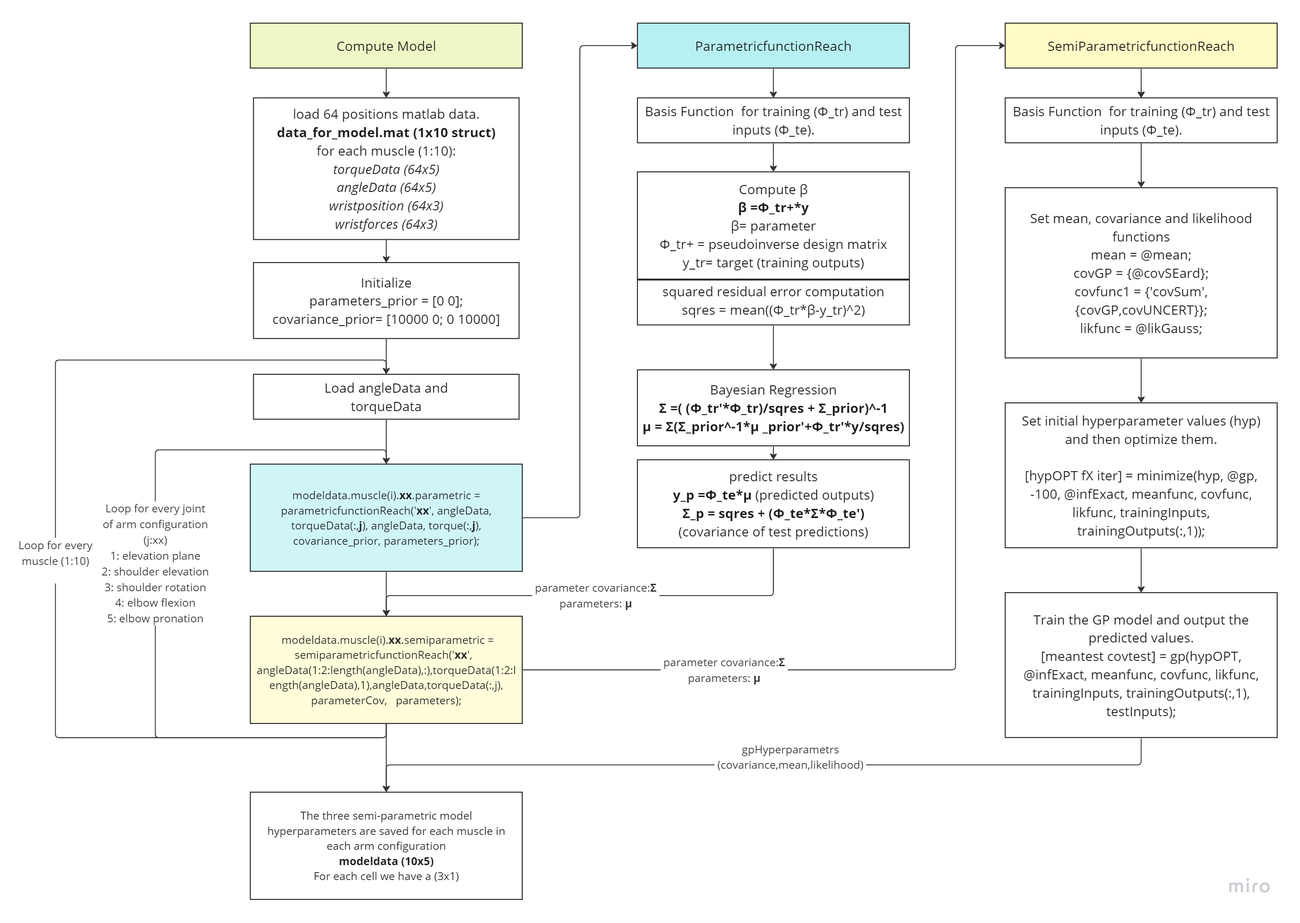
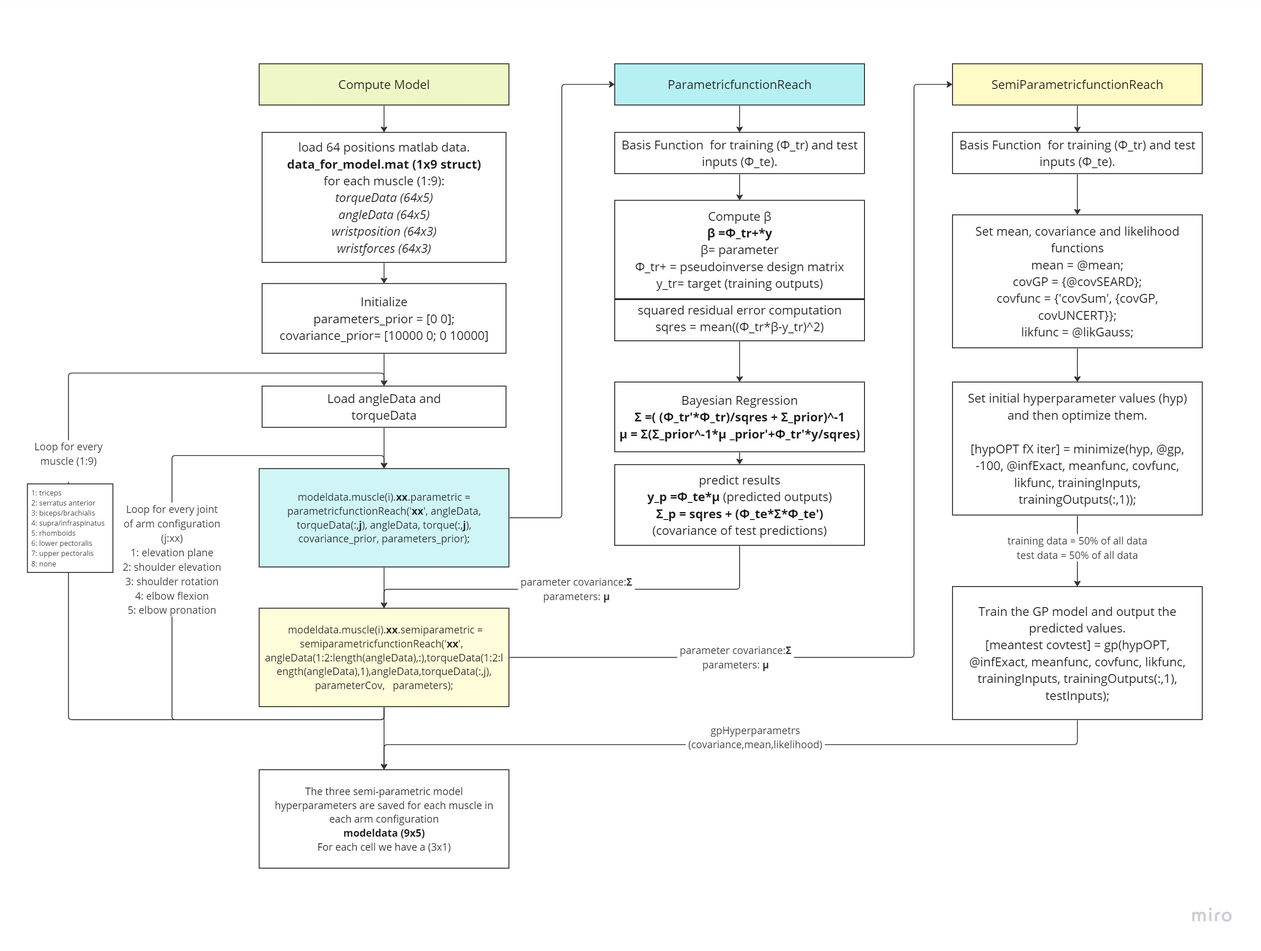
16.08.23

diff --git a/Chapters/05_2_Model_Identification.tex b/Chapters/05_2_Model_Identification.tex
@@ -1,10 +1,10 @@
 \newpage
-\chapter{Model Design and Development}\label{sec:model}
+\chapter{Arm Model Design and Development}\label{sec:model}
 The world of model-based methods for FES-based arm control is vast, encompassing different approaches. This chapter commences with a detailed background on these diverse methods, setting the stage for a deeper exploration. Gaussian Process Regression (GPR) model was selected to control the simulated arm in the DAS. It is selected for its non-parametric and data-driven attributes. This choice allows for a detailed analytical representation of complex patterns without rigid assumptions about muscle structure. 
 
 The chapter then transitions to the design of the two essential models for this project; the 'Inverse Statics', which determines the joint torque necessary for a specific static arm position, and the 'Muscle Torque Production' that connects arm configuration and muscle activation to the produced joint torque. 
 
-From choosing the target positions and initial configurations for data collection, to the introduction of a PI controller designed to compute wrist force, to the torque calculation via the Kinematic Jacobian, each section builds upon the previous. Later sections provide a comparative analysis of the three GPR models, highlighting the semi-parametric model that  combines the flexibility of black-box functions with strong generalization capabilities. With a foundation in GPR, the chapter concludes by detailing its implementation on Matlab, delving into data extraction, model fitting, and the final derivation of hyperparameters representative of the models.
+From choosing the target positions for data collection, to the PI controller designed to compute wrist force to hold static at the target positions, to the torque calculation via the Kinematic Jacobian, each section builds upon the previous. Later sections provide a comparative analysis of the three GPR models, highlighting the semi-parametric model that  combines the flexibility of black-box functions with strong generalization capabilities. With a foundation in Semi-Parametric GPR models, the chapter concludes by detailing its implementation on Matlab, delving into data extraction, model fitting, and the final derivation of hyperparameters representative of the desired models.
 
 \subsection{Background}
 Model-based methods for FES controlling the arm as a unified system and determining real-world arm dynamics have been suggested in earlier studies as a solution for precise control. For instance, physics-based models have demonstrated some success in controlling two muscles for rehabilitation \cite{IOL}. However, a major challenge lies in the identification of the physical parameters of the entire arm, which demands a significant amount of data.
@@ -56,33 +56,34 @@ Finally, the collected data is used to train the two semiparametric GPR models w
  
  Since no real-world situation has been evaluated for this project, the simulation's goal is to represent a reaching motion beginning from an equilibrium posture. Additionally, the stroke survivor's arm is not being held by an external robot.As detailed in Section \ref{Design}, this approach stems from the assumption that the stroke survivor retains a degree of arm stability, sufficient to facilitate a limited reaching movement.  
 
- For this, it is decided to find calculate the forces in 64 different positions. This 64 positions are automatically generated using the function \textit{\textbf{create\_grid()}}.
-
-
-The \textbf{\textit{create\_grid()}} function generates a grid of target points by defining the starting and ending coordinates for the x, y, and z dimensions and then linearly spacing these coordinates. If a model is provided as an input, the function also plots the wrist references, offering a visual representation of these coordinates.
-
-\begin{table}[h]
-    \centering
-    \caption{Start and End Positions for x, y, and z Coordinates}
-
-    \begin{tabular}{|c|c|c|}
-        \hline
-        Coordinate & Start Position & End Position \\
-        \hline
-        x & 0.3 & -0.08 \\
-        y & 0 & -0.3 \\
-        z & -0.1 & -0.35 \\
-        \hline
-    \end{tabular}
-    \label{table:coordinates}
-\end{table}
-
+ For this, it is decided to find calculate the forces in 64 different positions. These 64 positions are automatically generated using the function \textit{\textbf{create\_grid()}}.
+ 
 \begin{figure}[h!]
     \centering
     \includegraphics[width=0.3\textwidth]{Pictures/Model/create_grid.png}
     \caption{\textit{create\_grid} function output. 64 target positions used to calculate the required force to hold a this reference static positions with and without neural excitation.}
     \label{fig:create_grid}
 \end{figure}
+
+The \textbf{\textit{create\_grid()}} function generates a grid of target points by defining the starting and ending coordinates for the x, y, and z dimensions and then linearly spacing these coordinates. If a model is provided as an input, the function also plots the wrist references, offering a visual representation of these coordinates.
+
+\begin{table}[h]
+    \centering
+    \caption{Start and End Positions for x, y, and z Coordinates}
+    \tiny
+    \begin{tabular}{|c|c|c|}
+        \hline
+        \textbf{Coordinate} & Start Position & End Position \\
+        \hline
+        \textbf{x} & 0.3 & -0.08 \\
+        \textbf{y} & 0 & -0.3 \\
+        \textbf{z} & -0.1 & -0.35 \\
+        \hline
+    \end{tabular}
+    \label{table:coordinates}
+\end{table}
+
+
 
 \newpage
 \section{PI Force Controller}\label{sec:PI}
@@ -141,7 +142,7 @@ The force necessary to reach each point is calculated by averaging the last 10\%
 \end{table}
 
 \newpage
-\subsubsection{Matlab Code}
+\subsection{Implementation}
 
 Below is a MATLAB code snippet that represents the PI Controller shown in Figure \ref{fig:PIBlockDiagram}. 
 
@@ -201,7 +202,7 @@ where the Jacobian matrix ($J \epsilon R^{6xn}$) relates the infinitesimal joint
 
 Calculating the kinematic Jacobian in robotics involves defining the structure and parameters of the robot's joints and links, often using conventions like Denavit-Hartenberg (D-H) parameters. Transformation matrices are found for each joint, and the end-effector position is obtained by multiplying these matrices.
 
-The Jacobian matrix is then constructed by differentiating the end-effector's position with respect to each joint variable, considering whether the joint is revolute or prismatic. The resulting 6×n matrix, where n is the number of joints, maps the joint velocities to the linear and angular velocities of the end-effector.
+The Jacobian matrix is then constructed by differentiating the end-effector's position with respect to each joint variable, considering whether the joint is revolute or prismatic. The resulting 6×n matrix, where n is the number of joints, maps the joint velocities to the linear and angular velocities of the end-effector. In this project´s scope the linear velocities will be the only ones taken into account. 
 
 \subsection{Implementation}
 The equation \ref{eq:displacement} is applied as shown in the MATLAB code below to calculate the torque values from the mean forces previously calculate using the PI controller. 
@@ -211,7 +212,7 @@ The equation \ref{eq:displacement} is applied as shown in the MATLAB code below 
 torque = dPhand_dx'*hand_F;
 \end{lstlisting}
 
-Due to the complex system, to calculate the kinematic Jacobian of the arm, the concept of infinitesimal displacement presented in Equation \ref{eq:displacement} is used. The function \textbf{\textit{handpos\_jacobian(x)}} (MATLAB code below) take the state and perturbs each degree of freedom by a small mount $h$. For each perturbation, the old and the new hand positions are  subtracted and divided by $h$. This describes how the changes in the degrees of freedom affect the hand´s position at that particular state. 
+Due to the complex system, to calculate the kinematic Jacobian of the arm, the concept of infinitesimal displacement presented in Equation \ref{eq:displacement} is used. The function \textbf{\textit{handpos\_jacobian(x)}} (MATLAB code below) takes the state and perturbs each degree of freedom by a small mount $h$. For each perturbation, the old and the new hand positions are  subtracted and divided by $h$. This describes how the changes in the degrees of freedom affect the hand´s position at that particular state. 
 
 \begin{lstlisting}[style=Matlab-editor]
 function [dPhand_dx, Phand, Phand_new] = handpos_jacobian(x)
@@ -262,11 +263,11 @@ Gaussian Process Regression (GPR) is a powerful and flexible tool used in machin
 \end{equation}
 where  \( \mu \) is the the mean vector and \( k(x, x') \) is the covariance or kernel function. The mean vector \( \mu \) describes the expected value of the distribution, while the kernel models the variance along each dimension and determines how the different random variables are correlated. The covariance matrix is always symmetric and positive semi-definite.
 
-GPR creates a model of the function it is trying to learn, using a process that considers an infinite number of dimensions and includes an element of randomness. It encapsulated initial beliefs about the function in the \textit{prior distribution}, defined by the mean and kernel functions. Observations are used to update these beliefs through the \textit{likelihood function}, leading to the computation of the \textit{posterior distribution}. This posterior reflects updated beliefs about the possible functions that best fit the data.
+GPR creates a model of the function it is trying to learn, using a process that considers an infinite number of dimensions and includes an element of randomness. It encapsulates initial beliefs about the function in the \textit{prior distribution}, defined by the mean and kernel functions. Observations are used to update these beliefs through the \textit{likelihood function}, leading to the computation of the \textit{posterior distribution}. This posterior reflects updated beliefs about the possible functions that best fit the data.
 
 Predictions are made by calculating the mean and variance of the predictive distribution at new inputs, allowing for both point estimates and uncertainty estimates. 
 
-In summary, GPR operates on the foundational principles of Bayesian inference to model a function from given data. This enables GPR to deliver both point predictions and associated uncertainties. The inherent flexibility and adaptability of GPR make it a powerful and widely applicable tool for function approximation in machine learning and statistical analysis. \cite{GPR}
+In summary, GPR operates on the foundational principles of Bayesian inference to model a function from given data. This enables GPR to deliver both point predictions and associated uncertainties. The inherent flexibility and adaptability of GPR makes it a powerful and widely applicable tool for function approximation in machine learning and statistical analysis. \cite{GPR}
 
 \begin{figure}[h!]
     \centering
@@ -307,16 +308,12 @@ Details on the quality of the model can be found in \cite{SPI}. A summary of the
 
 Based on the results of the aforementioned study, the data for the set of 64 training positions is used to train semiparametric GPR models which are used to predict $\tau_j$ for a given configuration. The models are used to determine the static arm torques $p(q)$ and the muscle force mapping $R(q)$ for a desired arm configuration.
 The kernel function used in the GPR was the squared exponential function using the distance metric for rigid bodies. 
- 
-A MATLAB script, \textbf{\textit{compute\_GPR\_model}}, is designed to compute the model performing Gaussian Process Regression to fit the data. This code loads the data and does GPR for each muscle where the inputs are the arm configuration angles and the output are the joint torques.
 
-The flow diagram shows the steps of the code.
+A MATLAB script, \textbf{\textit{compute\_GPR\_model}}, is designed to compute the model performing Gaussian Process Regression to fit the data. The flow diagram on Figure \ref{fig:ModelComputationGPR} shows the steps followed on the code to compute the hyperparameters of the model.
 
-A more thorough description is presented below.
+The code firsts initializes the prior parameters and the covariance matrices the data containing the information related to each model is loaded. The script sets up 9 specific muscles and 64 target positions. 
 
-After initializing the prior parameters and the covariance matrices the data containing the information related to each model is loaded. The script sets up 10 specific muscles and 64 target positions. 
-
-A loop iterates through each muscle, fexecuting the following steps:
+A loop iterates through each muscle, executing the following steps:
 
 \begin{itemize}
     \item \textbf{Data Extraction}. The angle and torque data to each muscle is extracted.
@@ -324,24 +321,29 @@ A loop iterates through each muscle, fexecuting the following steps:
     \item \textbf{\textit{Output Model}}. Once the analysis is completed the \textbf{modeldata} structure containing the details of the models for all muscles is saved into a MATLAB file. 
 \end{itemize}
 
+ 
+ This code loads the data and does GPR for each muscle where the inputs are the arm configuration angles and the output are the joint torques. 
+
+
+
 \textbf{\textit{PARAMETRIC FUNCTION}}
 
 For the \textbf{parametricfunctionReach}, Bayesian Regression (\cite{BLM}) is used to calculate the mean ($\mu$) and the covariance ($\Sigma$) for the prior parameter distribution for the semiparametric model. Bayessian Regression is a statistical method that estimates the unknown parameters of a linear model by considering them as random variables with prior distributions. It takes into account prior knowledge of the parameters to provide a more precise understanding.
 
-In the following paragraphs, the code and the corresponding mathematical implications will be detailed.  Refer to figure \ref{fig:ModelComputationGPR} for a detailed flow diagram.
+In the following paragraphs, the code and the corresponding mathematical implications will be detailed.  Refer to Figure \ref{fig:ModelComputationGPR} for a detailed flow diagram.
 
 First the basis function or design matrix ,$\Phi$, is evaluated for each arm configuration torque. It is used to represent the relationship between the input variables and the target outputs in a compact and mathematical form. 
 
 Then a residual squared error computation following Equation \ref{eq:rsq} is calculated , where the model parameter, $\beta$, to predict the outputs is calculated by isolating it from the linear model. \( y \) is the target/output vector, \( \Phi \) is the design matrix, \( \beta \) is the vector of coefficients,\( \hat{y} \) is the predicted output vector and  \( sqres \) is the residual error. This residual error will act as the covariance matrix noise.
 
-\begin{equation}
+\begin{equation}\label{eq:rsq}
 \begin{aligned}
     y = \Phi \beta \\
     \beta = \Phi^+y \\
     \hat{y} = \Phi*\beta \\
     sqres = mean((\hat{y}-y)^2) \\
 \end{aligned}
-\end{equation} \label{eq:rsq}
+\end{equation} 
 
 Finally, the mean \( \mu \) and covariance \( \Sigma \) of the parameter $\beta$ distribution  that will define the prior distribution for the semiparametric model are calculated as a posterior distribution following the Bayesian linear regression.  
 
@@ -375,7 +377,7 @@ In summary, the prior mean \( \mu_0 \) and covariance \( \Sigma_0 \) encapsulate
 
 \textbf{\textit{SEMI-PARAMETRIC FUNCTION}}
 
-In the following paragraphs, the code and the corresponding mathematical implications will be detailed.  Refer to figure \ref{fig:ModelComputationGPR} for a detailed flow diagram.
+In the following paragraphs, the code and the corresponding mathematical implications for the \textbf{semi-parametricfunctionReach} will be detailed.  Refer to Figure \ref{fig:ModelComputationGPR} for a detailed flow diagram.
 
 First the basis function or design matrix ,$\Phi$, is evaluated for each arm configuration torque. It is used to represent the relationship between the input variables and the target outputs in a compact and mathematical form. 
 

diff --git a/Chapters/06_1_PIController.tex b/Chapters/06_1_PIController.tex
@@ -9,7 +9,7 @@ The green dot resembles the start of the movement and the red dot the end. The l
 The PI controller was successfully implemented across 64 points (see Figure \ref{fig:create_grid}).
 
 \subsection{Scenario 1: From equilibrium position to target without Neural Excitation}
-Scenario 1 was simulated during 3 seconds with a time step of 0.001s, Kp = 2000 and Ki = 100 (See Table \ref{tab:PI}).
+Scenario 1 was simulated during 3 seconds with a time step of 0.001s, Kp=2000 and Ki=100 (See Table \ref{tab:PI}).
 The PI model successfully controlled the force for the 64 positions reaching. The table below presents performance results from Scenario 1.
 
 \begin{table}[h]
@@ -31,7 +31,7 @@ The PI model successfully controlled the force for the 64 positions reaching. Th
     \label{tab:PINNE}
 \end{table}
 
-It can be seen that the mean target position error is very low and there is not a high variance for the 64 different positions. Moreover, the steady force values are achieved early during the simulation. Finally, it is interesting to highlight that the simulation running time has a 2s difference from the real-time simulation. 
+It can be seen that the mean target position error is very low and there is not a high variance for the 64 different positions. The force values  achiev a steady value early during the simulation. Finally, it is interesting to highlight that the simulation running time has a 2s difference from the real-time simulation. 
 
 The GIF \ref{gif:PICONTROLLER2} (best viewed in Adobe Acrobat) illustrated the OpenSIM movement under the PI controller without neural excitation from equilibrium position to target position. 
 
@@ -46,7 +46,7 @@ The GIF \ref{gif:PICONTROLLER2} (best viewed in Adobe Acrobat) illustrated the O
 
 \newpage
 \subsection{Scenario 2: Holding initial position with different muscles Neural Excitation}
-Scenario 2 was simulated during 0.5 seconds with a time step of 0.001s, Kp = 2000 and Ki = 100 (See Table \ref{tab:PI}).
+Scenario 2 was simulated during 0.5 seconds with a time step of 0.001s, Kp=2000 and Ki=100 (See Table \ref{tab:PI}).
 The PI model successfully controlled the force for the 64 positions. The table below presents some results from Scenario 2 for the 9 muscle categories.
 \begin{table}[h]
     \centering
@@ -78,6 +78,9 @@ The PI model successfully controlled the force for the 64 positions. The table b
     \label{table:PIResults}
 \end{table}
 
+The average target position error remains very low with a low variance for the 64 different positions. In addition, the PI controller is able to find the force that will maintain a steady state in half of the simulation time. However, the real simulation time is more than high times higher than the simulated time. This could be because when a matrix singularity is found the system is reset with different initial arm length values. This could delay the process of simulation. 
+The GIF \ref{gif:PICONTROLLER1} (best viewed in Adobe Acrobat) illustrated the OpenSIM movement under the PI controller  maintaining the position during triceps stimulation.
+
 \begin{figure}[h]
     \centering
     \animategraphics[autoplay,loop,width=0.75\textwidth]{12}{Pictures/Results/TricepsExct/frame_}{0}{34}
@@ -85,9 +88,6 @@ The PI model successfully controlled the force for the 64 positions. The table b
     \label{gif:PICONTROLLER1}
 \end{figure}
 
-The GIF \ref{gif:PICONTROLLER1} (best viewed in Adobe Acrobat) illustrated the OpenSIM movement under the PI controller  maintaining the position during triceps stimulation.
-
-The average target position error remains very low with a low variance still for the 64 different positions. In addition, the PI controller is able to find the force that will maintain a steady state in half of the simulation time. However, the real simulation time is more than high times higher than the simulated time. This could be because when a matrix singularity is found the system is reset with different initial arm length values. This could delay the process of simulation. 
 
 \newpage
 \subsection{PI vs PID Controller}
@@ -176,16 +176,16 @@ As seen in the Figures below the arm support reduces oscillation improving the s
 \end{figure}
 
 
-\begin{figure}[h!] 
+\begin{figure}[t] 
+    \vspace*{0pt}
     \centering
-    \begin{subfigure}[b]{0.45\linewidth}
-       \includegraphics[width=1.1\linewidth]{Pictures/Results/stimuated_1_without_support.png}
+    \begin{subfigure}[b]{0.7\linewidth}
+       \includegraphics[width=\linewidth]{Pictures/Results/stimuated_1_without_support.png}
         \caption{PI Controller Without Arm Support.}
     \end{subfigure}
-    \hfill
-    %\vspace{1cm} % Adjust the space between the figures as needed
-    \begin{subfigure}[b]{0.45\linewidth}            
-        \includegraphics[width=1.1\linewidth]{Pictures/Results/stimuated_1_with_support.png}
+    \vspace{1cm} % Adjust the space between the figures as needed
+    \begin{subfigure}[b]{0.7\linewidth}            
+        \includegraphics[width=\linewidth]{Pictures/Results/stimuated_1_with_support.png}
         \caption{PI Controller With Arm Support.}
     \end{subfigure}
 

diff --git a/Chapters/05_3_Control_Design.tex b/Chapters/05_3_Control_Design.tex
@@ -1,6 +1,14 @@
 \chapter{Control Design and Development}
 
+This chapter presents the arm control design and development that will achieve the objectives highlighted in Section \ref{Design} and illustrated in Figure \ref{fig:bdd}. This journey spans across three stages, each building up from the preceding one, starting from a static control to a sophisticated EMG-influenced control.  
 
+The chapter commences with the \textbf{Static Controller}. This controllers serves as a foundation to ensure the arm's steadiness in a specified position. Utilizing the models from Section \ref{sec:model} and combining it with a PD Controller, the necessary neural activations are generated to hold the arm in the static position. To measure its effectiveness, the controller is assessed across 960 points. From this examination, a select group of \textit{feasible points} are identified. A feasible point signifies that the controller was able to find the corresponding neural activation to sustain a target position uninterrupted for a full second. 
+
+Building upon the static controller, the next phase of \textbf{Path Following Quasi-Static Controller} incorporates the element of motion. The calculated feasible points serve as stepping stones, forming a path designed using the K-Nearest-Neighbours algorithm. This path will be used by the controller to move the arm from point to point, steadily aiming for the end target position.
+
+At the end of the chapter the \textbf{EMG-Influenced FES Controller} is studied. Here, muscle activations are tailored according to the design considerations set in \ref{sec:design considerations}, resulting in a distinct stroke-like movement pattern. A FES device is simulated in this phase. Its objective is to supplement the muscle activation to perform the intended movement. The FES device control dynamically adjusts its output depending on the real-time neural activity data from the triceps. 
+
+By the end of this chapter, readers will have an understanding of the layered process performed to design the simulated EMG-Influenced FES controller of this project. 
 
 \section{Static Controller} \label{NeuralController}
 
@@ -64,7 +72,7 @@ The figures (gif if opened in Adobe Acrobat) below present the generated grid. P
     \centering
     \animategraphics[autoplay,loop,width=0.8\textwidth]{12}{Pictures/Controller/gif/feasiblepoints-}{0}{149}
     \caption{Feasible points. Open in Adobe Acrobat to see gif movement.}
-    
+    \label{gif:Feasiblepoints}
 \end{figure}
 
 \newpage
@@ -132,7 +140,7 @@ This process is repeated until the path reaches the desired end position. As a r
 
 
 \newpage
-\section{EMG-Influenced Controller Development}
+\section{EMG-Influenced FES Controller Development}
 
 Building on top of the controllers previously designed and discussed in this section, we further extend our investigation into the intricate challenges faced by stroke patients. An after-math of stroke is the muscular imbalances, most specifically muscle spasticity, which refers to muscle stiffness that influences movement and speed. As a result, they present difficulty extending the arm. The biceps tend to be over-activated and the triceps and anterior deltoid under-activated \cite{IOL}. To counteract these muscular imbalances, this controller has being design to simulate an effective and targeted electric stimulation. 
 

diff --git a/Chapters/01_0_Introduction.tex b/Chapters/01_0_Introduction.tex
@@ -80,13 +80,13 @@ It is structured in the following way:
 
 \textbf{Chapter 1: Introduction} offers and initial dive into the central research question, the current existing gaps and the problem statement. Moreover it introduces the research goals that will be aimed to be completed along the thesis.
 
-\textbf{Chapter 2: Motivation} serves as a backbone and clarifies the context of the research. The chapter shed light on contemporary FES technologies and their inherent drawbacks, starting with a general overview of the background and moving on to a detailed examination of post-stroke upper limb rehabilitation.
+\textbf{Chapter 2: Literature Review} serves as a backbone and clarifies the context of the research. The chapter shed light on contemporary FES technologies and their inherent drawbacks, starting with a general overview of the background and moving on to a detailed examination of post-stroke upper limb rehabilitation.
 
 \textbf{Chapter 3: Design} The outline for the research is provided in this chapter. It states the design criteria, presents an initial design block diagram and the corresponding requirements for the experiment setup. It also presents in detail the tool employed in this study- a comprehensive model for musculoskeletal dynamics of the arm. 
 
-\textbf{Chapter 4: Model Design and Development} dives in the intricacies of the arm dynamics model development. From defining the data used for the model to the creation of the Semi-Parametric Gaussian Process Regression model.
+\textbf{Chapter 4: Arm Model Design and Development} dives in the intricacies of the arm dynamics model development. From defining the data used for the model to the creation of the Semi-Parametric Gaussian Process Regression model.
 
-\textbf{Chapter 5: Control Design and Development} offers an in-depth analysis of different studies where multiple controllers were used for FES. A Quasi-Static Controller is chosen as the most fitted one or this project. In this chapter the controller is developed starting from a static position, then moving into a path-following quasi-static controller and finally into the novelty of adding the EMG-influenced controller.
+\textbf{Chapter 5: Arm Control Design and Development} offers an in-depth analysis of different studies where multiple controllers were used for FES. A Quasi-Static Controller is chosen as the most fitted one or this project. In this chapter the controller is developed starting from a static position, then moving into a path-following quasi-static controller and finally into the novelty of adding the EMG-influenced controller.
 
 \textbf{Chapter 6: Results} presents the findings from the Semi-Parametric GPR Models and the implemented stages of the controller.
 

diff --git a/Chapters/06_3_GPR.tex b/Chapters/06_3_GPR.tex
@@ -1,3 +1,4 @@
+\cleardoublepage
 \section{Semi-Parametric GPR Models}
 
 In this section the results of the GPR models for two muscles is shown. Figure \ref{fig:GPRMuscleLowerPectoralis} represents Lower Pectoralis and Figure \ref{fig:GPRMuscleTriceps} represents the Triceps. The rest of the Figures for the rest of the muscles can be found in the github repository under the Data/ModelFigures file. 
@@ -10,6 +11,15 @@ Each plot presents:
     \item The predicted test outputs (in red dashed lines).
     \item A shaded region representing a confidence interval (±2 standard deviations) around the predicted values.
 \end{itemize}
+
+The efficiency of the models were tested by computing the feasibility of 960 generated points (Figure \ref{fig:960 points}). A point was considered feasible if the static controller developed on Section \ref{NeuralController} was able to calculate the corresponding neural activations that will hold the arm in that position for 1 second. The static controller was able to find the neural excitations for 74.06\% of the points. The GIF \ref{gif:Feasiblepoints} shows in green the feasible points and in red the non-feasible ones.
+
+\begin{figure}[h!]
+    \centering
+   \includegraphics[width=0.4\linewidth]{Pictures/Results/960points.png}
+    \caption{960 generated points}
+    \label{fig:960 points}
+\end{figure}
 
 \begin{figure}[htbp]
     \centering

diff --git a/Chapters/03_0_Design.tex b/Chapters/03_0_Design.tex
@@ -19,7 +19,7 @@ The project design must fulfill the following criteria to comply with all the re
     
 \end{enumerate}
 
-\section{Design Considerations: Stroke Coefficient and FES Frequency}
+\section{Design Considerations: Stroke Coefficient and FES Frequency} \label{sec:design considerations}
 
 When designing this project, two pivotal factors need to be meticulously considered: the simulation of stroke's effect on muscle activation and the optimal frequency for the FES system.
 
